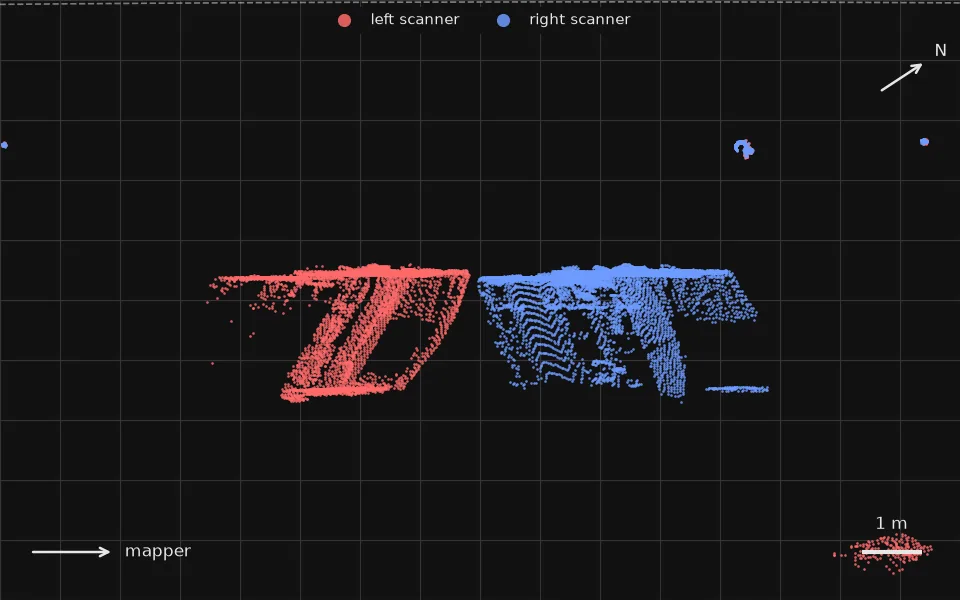
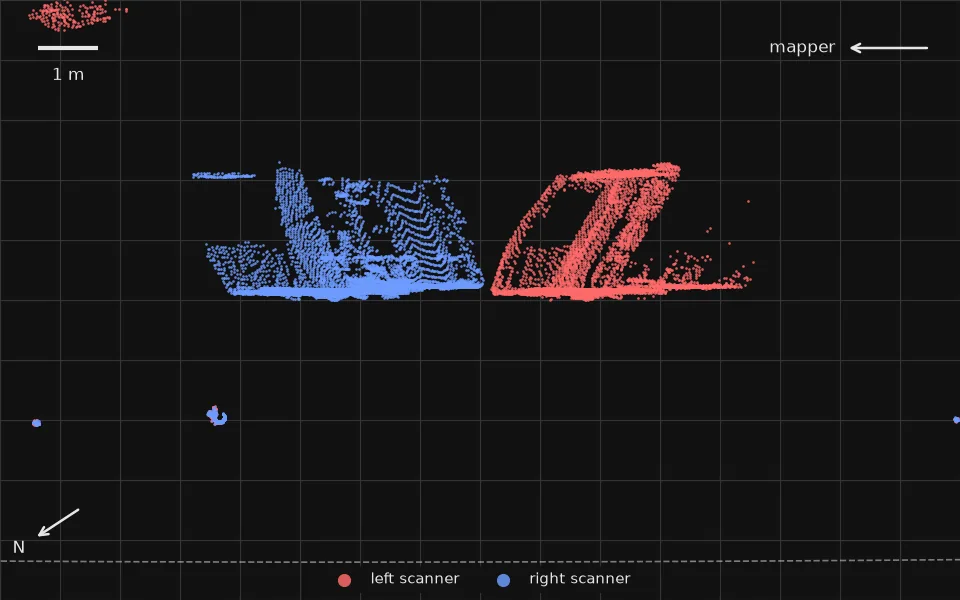
Field image F36: rotate the map 180 degrees so the vehicle is above the path

diff --git a/static/js/field-data.js b/static/js/field-data.js
@@ -65,15 +65,15 @@
             image: 'static/images/field/F36.webp',
             imageDark: 'static/images/field/F36-dark.webp',
             width: 960, height: 600,
-            alt: 'Top view of real mobile laser scanning data. An oncoming vehicle to the right of the mapper appears twice, side by side: the left scanner’s copy (red) is sheared into a parallelogram and the right scanner’s copy (blue) has a different shape. Scale bar 1 m.',
-            caption: 'Contraction in the field. An oncoming vehicle to the right of the mapper met the scan lines head-on, so each scanner swept it quickly and recorded a shortened, sheared copy at a different place. The simulator always places the object on the mapper’s left; in this real example the oncoming vehicle is on the mapper’s right. Estimated speeds: mapper 38 km/h, vehicle 30 ± 14 km/h, oncoming (θ ≈ 175°). Red: left scanner; blue: right scanner.',
+            alt: 'Top view of real mobile laser scanning data. An oncoming vehicle to the right of the mapper appears twice, side by side: the left scanner’s copy (red) is sheared into a parallelogram and the right scanner’s copy (blue) has a different shape. The map is rotated 180° (not mirrored), so the mapper travels right to left and the vehicle appears above its path. Scale bar 1 m.',
+            caption: 'Contraction in the field. An oncoming vehicle to the right of the mapper met the scan lines head-on, so each scanner swept it quickly and recorded a shortened, sheared copy at a different place. The simulator always places the object on the mapper’s left; in this real example the oncoming vehicle is on the mapper’s right. The map is rotated 180° (not mirrored) so that the vehicle appears above the path. Estimated speeds: mapper 38 km/h, vehicle 30 ± 14 km/h, oncoming (θ ≈ 175°). Red: left scanner; blue: right scanner.',
             vm: { kmh: 38 },
             vo: { kmh: 30, pm: 14 },
             theta: -175,
             location: 'Guwahati, Assam, India',
             date: null,
             gpsTime: 535415.2,
-            scale: 'Top view, mapper travelling left to right. Grid 1 m, scale bar 1 m. Points 0.5–3 m above the road.',
+            scale: 'Top view rotated 180°, mapper travelling right to left. Grid 1 m, scale bar 1 m. Points 0.5–3 m above the road.',
             scanners: SCANNERS,
             credit: CREDIT
         }

diff --git a/tools/render_field.py b/tools/render_field.py
@@ -28,6 +28,13 @@ the track from the mapper's own lane (5th percentile of height in 2 m bins,
     tools/.venv/bin/python tools/render_field.py --ids F38 --no-title --size 76 --shift -3.75 \
         --lane 0.5 3.5 --hmin 0.3 --hmax 2.0 --min-streak 8 --dot 3.5 --out-dir static/images/field
     (and the same with --theme dark)
+
+F36 is drawn rotated by 180 degrees, with the crop moved 0.6 m to the mapper's left so
+the mapper's path sits inside the frame (about 40 px from the edge), between the north
+arrow and the legend:
+
+    tools/.venv/bin/python tools/render_field.py --ids F36 --no-title --rotate 180 --shift-left 0.6 \
+        --out-dir static/images/field      (and the same with --theme dark)
 """
 import argparse
 import io
@@ -86,7 +93,7 @@ def crop(scanners, cx, cy, half, hmin, hmax):
 
 
 def render(scanners, traj, cx, cy, t, size, color, title, path, fmt, max_kb, hmin, hmax, stride, theme,
-           lane=None, min_streak=8.0, dot=1.6):
+           lane=None, min_streak=8.0, dot=1.6, rotate=0):
     import matplotlib
     matplotlib.use("Agg")
     import matplotlib.pyplot as plt
@@ -97,10 +104,14 @@ def render(scanners, traj, cx, cy, t, size, color, title, path, fmt, max_kb, hmi
     fwd = np.array([math.sin(course), math.cos(course)])
     left = np.array([-math.cos(course), math.sin(course)])
     ox, oy = cx, cy                                             # crop centre -> origin of the local frame
+    # rotate=180 turns the map half a turn in the image plane (both image axes negated:
+    # a rotation, determinant +1, never a mirror). Only the data layer turns; the text,
+    # arrows and legend are drawn upright, in the opposite corners.
+    rs = -1.0 if rotate == 180 else 1.0
 
     def to_local(x, y):
         dx, dy = x - ox, y - oy
-        return dx * fwd[0] + dy * fwd[1], dx * left[0] + dy * left[1]
+        return rs * (dx * fwd[0] + dy * fwd[1]), rs * (dx * left[0] + dy * left[1])
 
     dark = theme == "dark"
     bg, fg, grid = ("#111111", "#e6e6e6", "#333333") if dark else ("#ffffff", "#1a1a1a", "#e3e3e3")
@@ -136,24 +147,33 @@ def render(scanners, traj, cx, cy, t, size, color, title, path, fmt, max_kb, hmi
         ax.scatter(lx, ly, s=dot, c=c, lw=0, alpha=0.85, zorder=2, label=LABELS[k] if color == "scanner" else None)
 
     ax.set_xlim(-hx, hx); ax.set_ylim(-hy, hy); ax.set_aspect("equal"); ax.axis("off")
-    # scale bar
     sb = step * (2 if size > 16 else 1)
-    x0, y0 = hx - sb - 0.04 * size, -hy + 0.05 * size
-    ax.plot([x0, x0 + sb], [y0, y0], color=fg, lw=2, solid_capstyle="butt")
-    ax.text(x0 + sb / 2, y0 + 0.02 * size, f"{sb:g} m", color=fg, ha="center", va="bottom", fontsize=8)
-    # mapper heading (+x) and north arrows
-    ax.annotate("", xy=(-hx + 0.12 * size, -hy + 0.05 * size), xytext=(-hx + 0.03 * size, -hy + 0.05 * size),
-                arrowprops=dict(arrowstyle="->", color=fg, lw=1.2))
-    ax.text(-hx + 0.13 * size, -hy + 0.05 * size, "mapper", color=fg, va="center", fontsize=8)
     north = np.array([0.0, 1.0])
-    nl = np.array([north @ fwd, north @ left]) * 0.06 * size
-    nc = np.array([hx - 0.06 * size, hy - 0.08 * size])
+    nl = rs * np.array([north @ fwd, north @ left]) * 0.06 * size
+    if rotate != 180:
+        # scale bar bottom-right, mapper arrow bottom-left pointing right, north arrow top-right
+        x0, y0 = hx - sb - 0.04 * size, -hy + 0.05 * size
+        ax.plot([x0, x0 + sb], [y0, y0], color=fg, lw=2, solid_capstyle="butt")
+        ax.text(x0 + sb / 2, y0 + 0.02 * size, f"{sb:g} m", color=fg, ha="center", va="bottom", fontsize=8)
+        ax.annotate("", xy=(-hx + 0.12 * size, -hy + 0.05 * size), xytext=(-hx + 0.03 * size, -hy + 0.05 * size),
+                    arrowprops=dict(arrowstyle="->", color=fg, lw=1.2))
+        ax.text(-hx + 0.13 * size, -hy + 0.05 * size, "mapper", color=fg, va="center", fontsize=8)
+        nc = np.array([hx - 0.06 * size, hy - 0.08 * size])
+    else:
+        # rotated: scale bar top-left, mapper arrow top-right pointing left, north arrow bottom-left
+        x0, y0 = -hx + 0.04 * size, hy - 0.05 * size
+        ax.plot([x0, x0 + sb], [y0, y0], color=fg, lw=2, solid_capstyle="butt")
+        ax.text(x0 + sb / 2, y0 - 0.02 * size, f"{sb:g} m", color=fg, ha="center", va="top", fontsize=8)
+        ax.annotate("", xy=(hx - 0.12 * size, hy - 0.05 * size), xytext=(hx - 0.03 * size, hy - 0.05 * size),
+                    arrowprops=dict(arrowstyle="->", color=fg, lw=1.2))
+        ax.text(hx - 0.13 * size, hy - 0.05 * size, "mapper", color=fg, ha="right", va="center", fontsize=8)
+        nc = np.array([-hx + 0.06 * size, -hy + 0.08 * size])
     ax.annotate("", xy=tuple(nc + nl / 2), xytext=tuple(nc - nl / 2), arrowprops=dict(arrowstyle="->", color=fg, lw=1.2))
     ax.text(*(nc + nl / 2 * 1.6), "N", color=fg, ha="center", va="center", fontsize=8)
     if title:
         ax.text(-hx + 0.02 * size, hy - 0.03 * size, title, color=fg, va="top", fontsize=8)
     if color == "scanner":
-        ax.legend(loc="upper center", fontsize=7, frameon=True, facecolor=bg, edgecolor="none", framealpha=0.9, labelcolor=fg, markerscale=5 * math.sqrt(1.6 / dot), ncol=2)
+        ax.legend(loc="lower center" if rotate == 180 else "upper center", fontsize=7, frameon=True, facecolor=bg, edgecolor="none", framealpha=0.9, labelcolor=fg, markerscale=5 * math.sqrt(1.6 / dot), ncol=2)
 
     buf = io.BytesIO(); fig.savefig(buf, format="png", facecolor=bg); plt.close(fig)
     im = Image.open(io.BytesIO(buf.getvalue())).convert("RGB")
@@ -239,6 +259,9 @@ def main():
                     help="show only one vehicle: points LO..HI m left of the mapper's path (see the module docstring)")
     ap.add_argument("--min-streak", type=float, default=8.0, help="with --lane: minimum length (m) of a connected streak")
     ap.add_argument("--dot", type=float, default=1.6, help="point size (matplotlib s)")
+    ap.add_argument("--shift-left", type=float, default=0.0, help="move the crop centre this many metres to the mapper's left")
+    ap.add_argument("--rotate", type=int, choices=[0, 180], default=0,
+                    help="180: turn the map half a turn in the image plane (a rotation, not a mirror); text stays upright")
     a = ap.parse_args()
 
     jobs = []
@@ -258,15 +281,16 @@ def main():
 
     scanners, traj = load_scanners(a.data), load_traj(a.data)
     for cx, cy, t, size, name, title in jobs:
-        if a.shift:
+        if a.shift or a.shift_left:
             _, _, crs = mapper_at(traj, t)
             cx, cy = cx + a.shift * math.sin(crs), cy + a.shift * math.cos(crs)
+            cx, cy = cx - a.shift_left * math.cos(crs), cy + a.shift_left * math.sin(crs)
         if a.no_title:
             title = ""
         suffix = "-dark" if a.theme == "dark" else ""
         path = os.path.join(a.out_dir, f"{name}{suffix}.{a.format}")
         n = render(scanners, traj, cx, cy, t, size, a.color, title, path, a.format, a.max_kb, a.hmin, a.hmax, a.stride, a.theme,
-                   lane=a.lane, min_streak=a.min_streak, dot=a.dot)
+                   lane=a.lane, min_streak=a.min_streak, dot=a.dot, rotate=a.rotate)
         print(f"{path}  {n / 1024:.0f} KB")
 
 

diff --git a/CHANGELOG.md b/CHANGELOG.md
@@ -16,6 +16,7 @@
 - Changed: tightened the overview and the end of the primer.
 - Changed: shortened the FAQ answers.
 - Changed: in dark mode the simulation screenshot has a black frame instead of a white one (`static/images/sim-scene-dark.jpg`, made by `tools/make_sim_scene_dark.py`).
+- Changed: field image F36 (B1) is rotated 180° (not mirrored) so the vehicle appears above the mapper's path, with the mapper's path inside the frame; `tools/render_field.py` gains `--rotate 180` and `--shift-left`.
 
 ## v1.1.0
 
